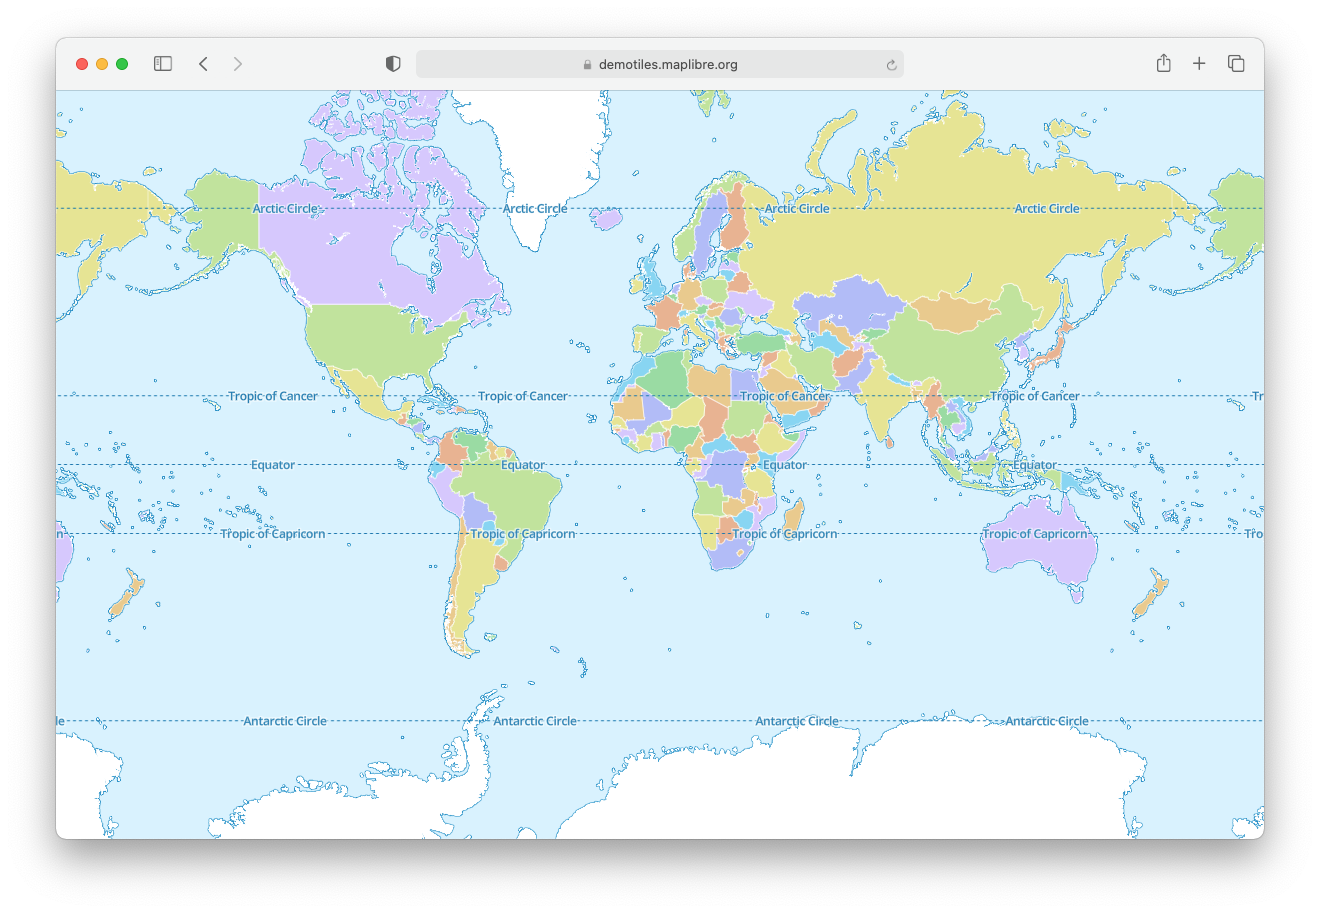
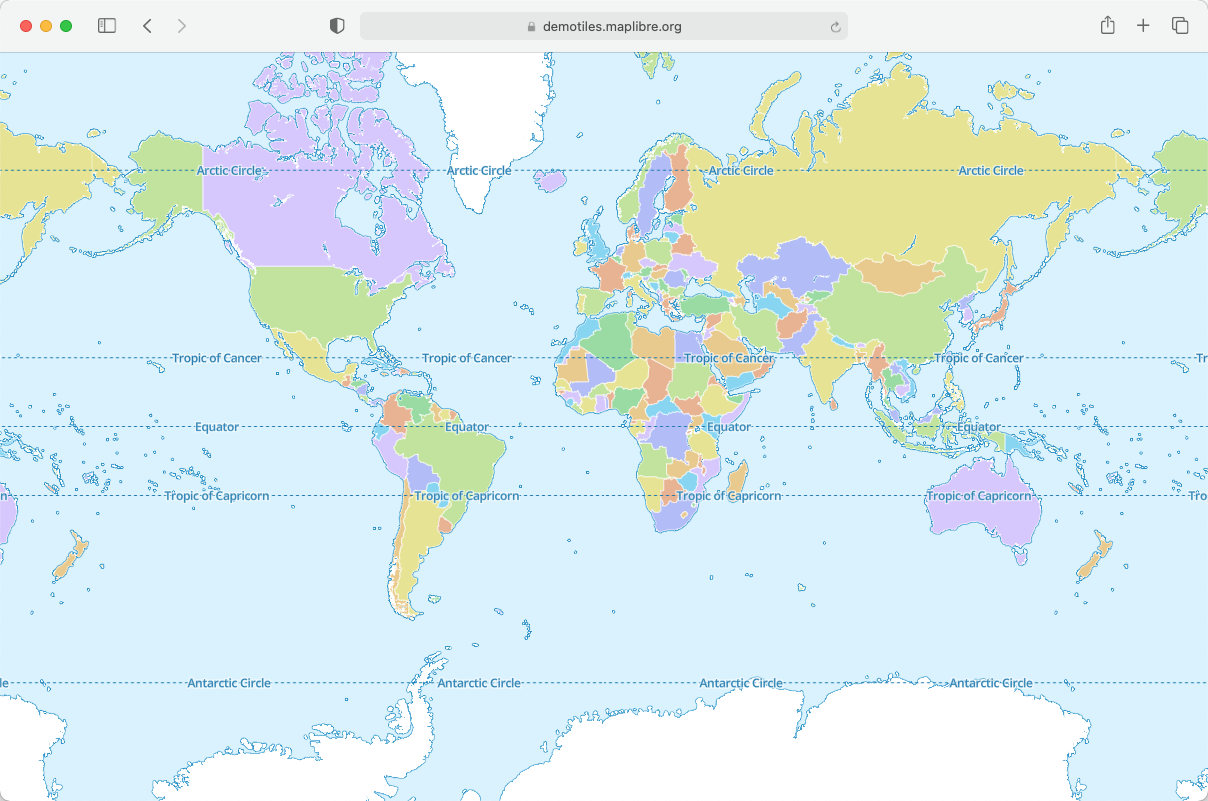
MapLibre GL JS image

diff --git a/src/projects.html b/src/projects.html
@@ -42,5 +42,14 @@ sitemap:
       <p>Binding for additional languages (such as React.js, Vue) or and external libraries.</p>
       <p>Plugins extending the functionality of the core SDKs.</p>
       <p>See awesome-maplibre on GitHub.</p>
+    </div>
+
+      <div class="col-sm-4">
+        <h2>MapLibre GL JS</h2>
+        <picture>
+          <img loading="lazy" class="w-100 h-auto rounded shadow my-3" src="{{ "/img/maplibre-gl-js-safari.png" | absolute_url }}" alt="MapLibre GL JS on Safari">
+        </picture>
+    </div>
+
   </div>
 </div>
